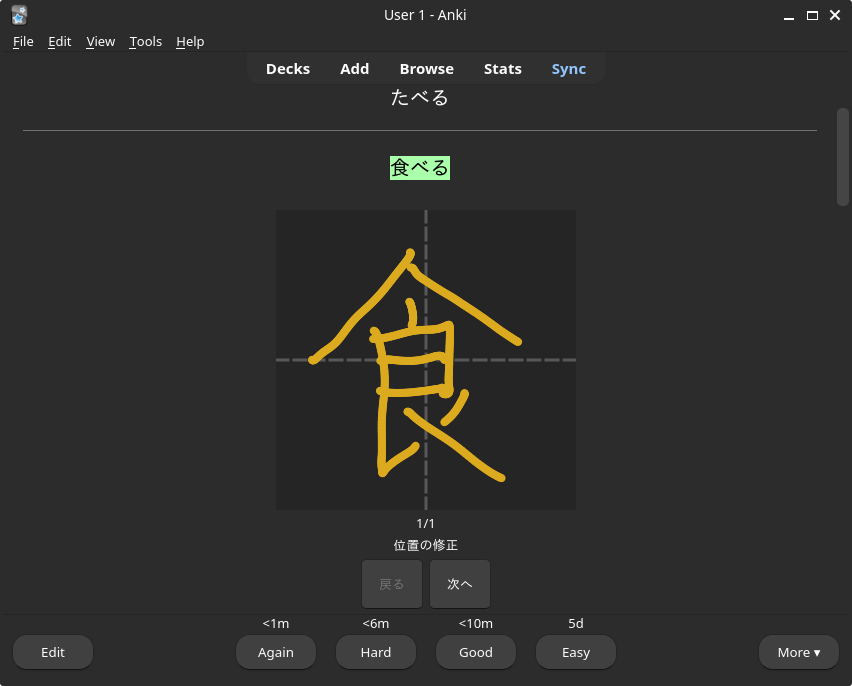
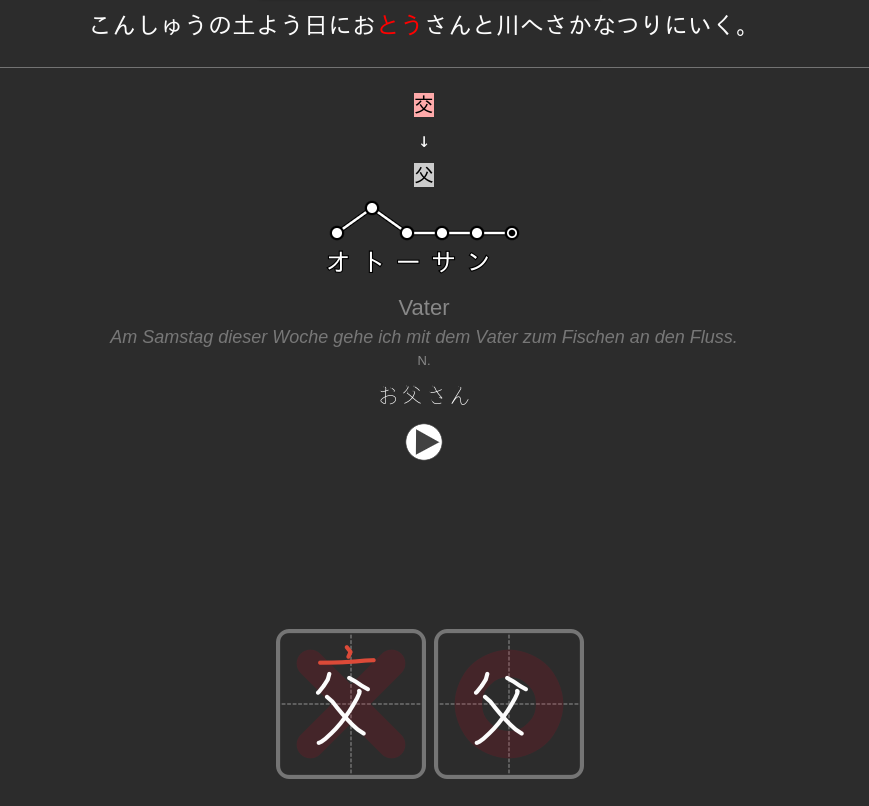
update readme

diff --git a/readme.md b/readme.md
@@ -1,13 +1,21 @@
+
+
 # Japanese Handwriting Input for Anki
 
-An Anki addon for writing Japanese characters by hand. Draw kana or kanji on a canvas inside Anki and the addon recognizes what you wrote and inserts it into the active field.
+An Anki add-on for practicing Japanese handwriting. Draw a hiragana, katakana, or kanji on a canvas inside Anki, and the add-on recognizes what you wrote and inserts it into the active field. For kanji practice, it can also check your drawing against a target character and show you both what went wrong and how it should look.
+
+⚠ **Early development:** Handwriting recognition and writing correction may not yet be accurate enough for reliable use.
 
 ## Features
 
-- **Hiragana recognition.** Draw a hiragana on the canvas, get the matching character. 
-- **Kanji handwriting feedback** *(experimental)*. Draw a target kanji and get back what was wrong: missing strokes, extra strokes, wrong order, position issues, and per-stroke shape quality.
+- Handwriting recognition 
+  - draw a hiragana, katakana, or kanji on the canvas and get the matching character inserted into the active field.
 
-![alt text](media/front.png)
+- Kanji handwriting feedback
+  - draw a kanji you're studying and see your handwriting checked against the reference, with mistakes marked on your strokes and a corrected version shown alongside.
+
+
+
 ![alt text](media/back.png) 
 
 ## Install the Add-on
@@ -18,8 +26,29 @@ An Anki addon for writing Japanese characters by hand. Draw kana or kanji on a c
 4. Enter this Add-on ID: 1324989483
 5. Restart Anki after installation.
 
+## Recognition
 
-## License
+The add-on currently uses a recognition engine based on DTW. For performance reasons, the engine is only able to recognize a character correctly when the correct number of strokes were drawn. The following table shows the recognition results using the *HANDS-nakayosi_t-98-09* dataset, restricted to samples where the correct number of strokes were drawn.
+
+|         | Hiragana | Katakana | Kanji  | Japanese |
+| ------- | -------- | -------- | ------ | -------- |
+| correct | 69.11%   | 65.44%   | 91.50% | 88.25%   |
+
+This benchmark tracks the recognition engines and models the add-on uses, or has considered using over time. The table compares the percentage of correctly recognized characters across all samples from the *HANDS-nakayosi_t-98-09* dataset for the DTW engine and Zinnia (using a model from Tegaki).
+
+|                         | Hiragana | Katakana | Kanji  | Japanese |
+| ----------------------- | -------- | -------- | ------ | -------- |
+| correct (DTW)           | 60.04%   | 58.24%   | 46.38% | 45.75%   |
+| correct (Zinnia+Tegaki) | 21.84%   | 1.7%     | 41.37% | 39.48%   |
+
+
+
+
+
+
+## License & Acknowledgment
 
 The KanjiVG-derived data in `data/` is licensed under
 [CC BY-SA 3.0](https://creativecommons.org/licenses/by-sa/3.0/). See `data/LICENSE.txt` for full attribution.
+
+This project uses TUAT Nakagawa Lab. HANDS-nakayosi_t-98-09 stroke database.
